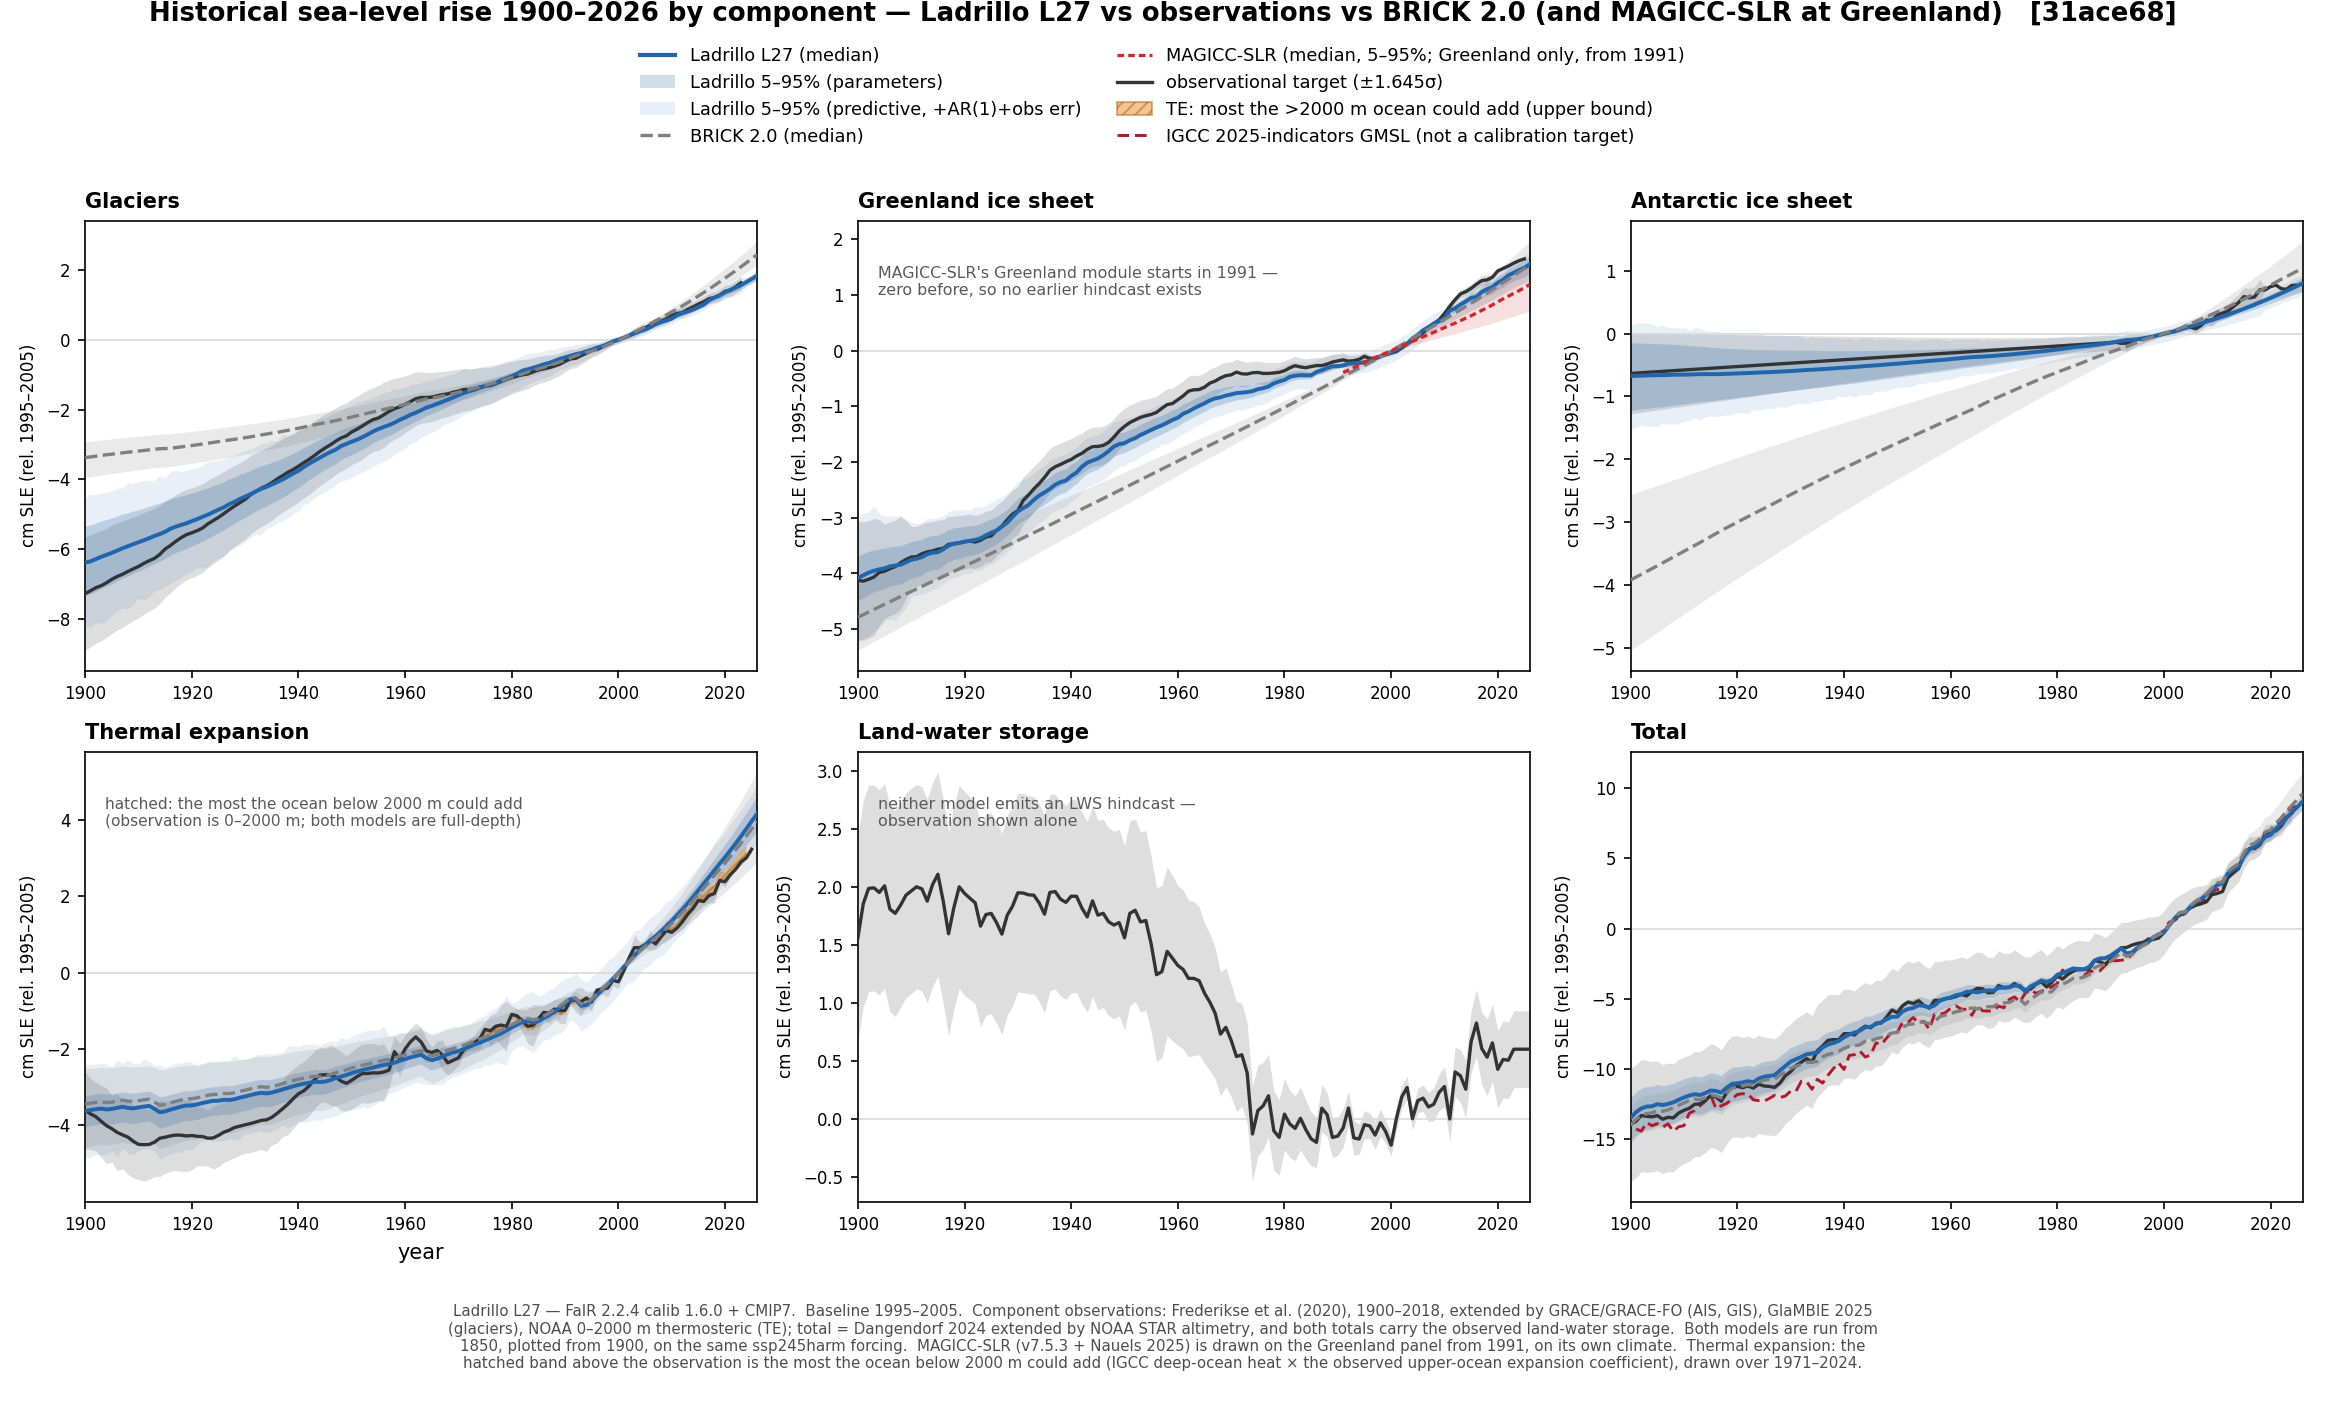
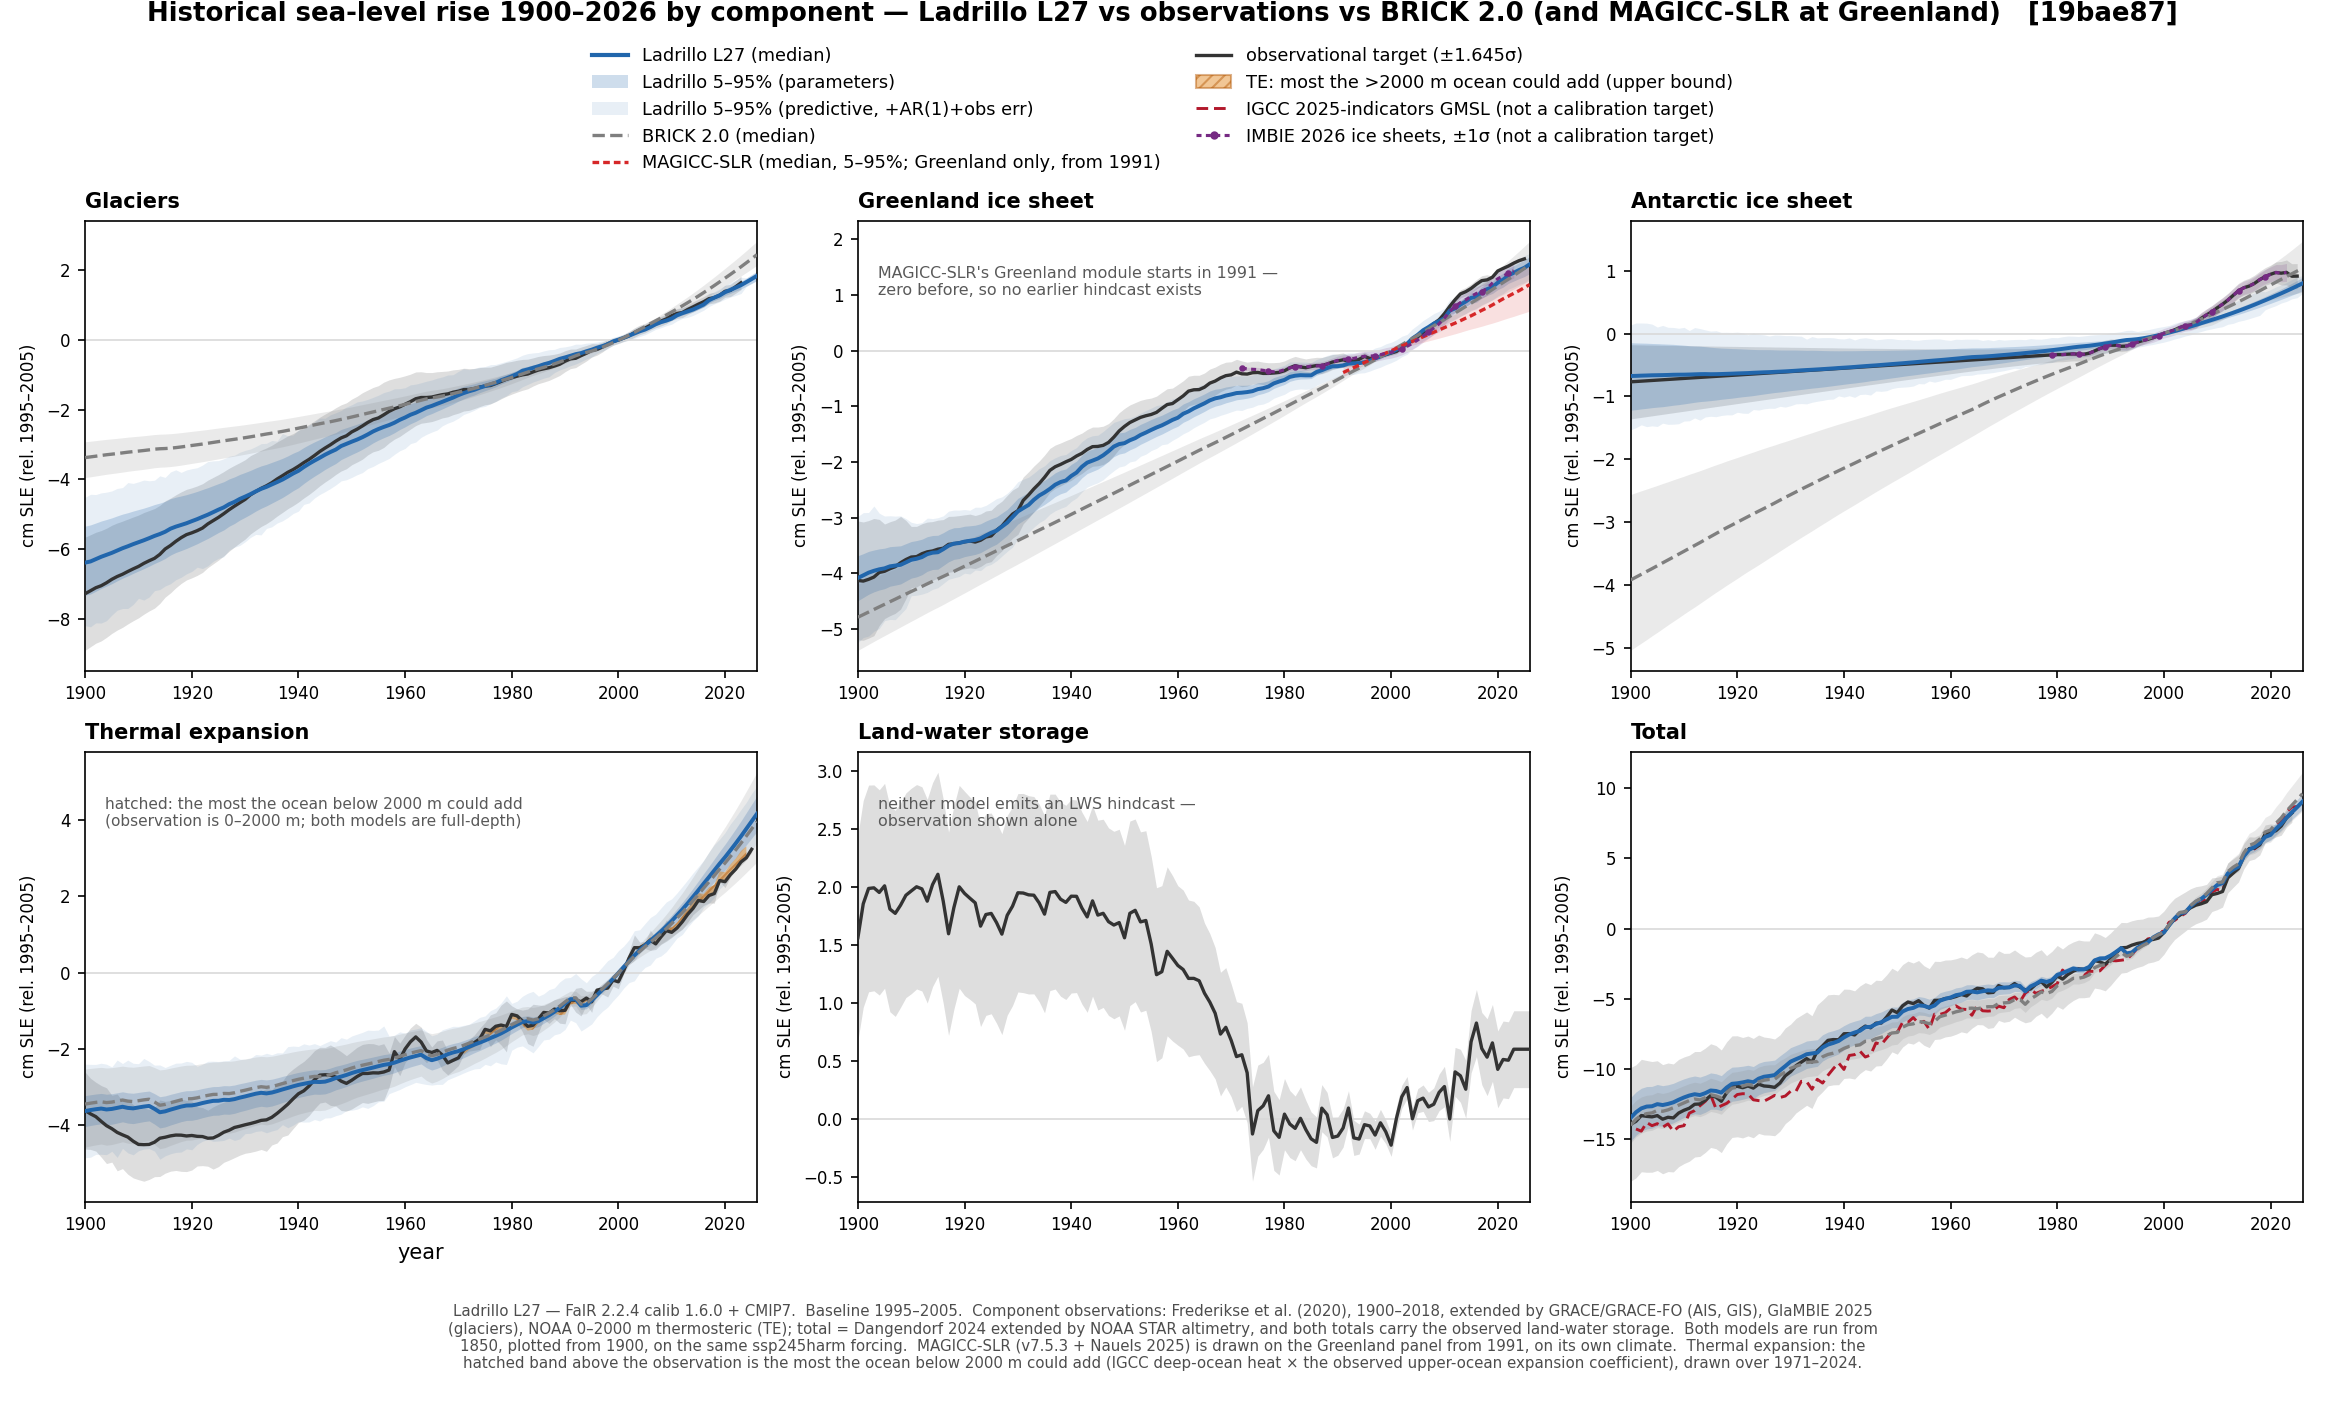
Add IMBIE 2026 to the observations figure; FIG 1 was still the L24 render
The two ice-sheet panels of the hindcast figure now carry the IMBIE 2026
reconciled record with its +/-1 sigma band, following the pattern IGCC
already sets on the total panel: an independent product that is not in the
fit, so agreement is evidence rather than circularity. The claim is
stronger here than for the total -- the calibrator drops the IMBIE point
terms and no vintage of the Greenland target has ever contained IMBIE.

The series is read from diag_imbie2026_vs_targets.py's output rather than
re-converting IMBIE's published files here, because that script is the
repo's one converter to cm SLE on the 1995-2005 reference and a second
copy of that rule is how two copies drift apart. Three gates: the
provenance stamp must name IMBIE 2026, the imbie_* columns must be
byte-identical to another tag's file (so the observation series cannot
inherit the candidate arm), and the series must already be zeroed on
1995-2005 or it would not share the figure's baseline.

Colour is #762a83, which already means IMBIE 2026 in
diag_imbie2026_vs_targets.py. Against Ladrillo's blue it is deuteranopia
dE 7.8 -- above the hard floor of 6, below the target of 8, which
validate_palette reports as "needs secondary encoding" -- so the series
also carries a dotted linestyle and markers. A red would have passed
outright but #b2182b is already IGCC on this figure's total panel, and red
would then mean two different products in one image.
[…]

diff --git a/python/plot_hindcast_components.py b/python/plot_hindcast_components.py
@@ -43,7 +43,7 @@ adjustment), not the raw `gsic` target column. They differ by ~1.5 cm at 1900 an
 2020; plotting raw makes Ladrillo look biased at 1900 when it is not. The band half-widths
 come from the target file and are re-centred on the corrected line so the two agree.
 """
-import os
+import glob, os
 import sys
 
 sys.path.insert(0, os.path.dirname(os.path.abspath(__file__)))
@@ -130,6 +130,22 @@ OBS_LINE = {"glaciers": "glaciers_obs_delta_corrected"}   # see the GLACIER OBS 
 C_LAD, C_BRK = lf.SRC_COLOR["Ladrillo"], lf.SRC_COLOR["BRICK 2.0"]
 C_MAG = lf.SRC_COLOR["MAGICC-SLR"]
 C_OBS, C_IGCC = "#333333", "#b2182b"
+## ⭐ IMBIE 2026 (Otosaka et al. 2026) on the two ICE-SHEET panels, for the same reason IGCC is on
+## the total: an INDEPENDENT product that is not in the fit, so agreement is evidence and not
+## circularity. It is a stronger claim here than for the total — the calibrator DROPS the IMBIE
+## point terms and no vintage of the Greenland target has ever contained IMBIE, so both panels are
+## genuinely out-of-sample (Antarctica for L27 specifically, which predates the IMBIE target build).
+## Antarctica starts 1979 and Greenland 1972; nothing is drawn before those years.
+C_IMBIE = "#762a83"
+## ⚠ COLOUR IS NOT THE ONLY CUE, DELIBERATELY. #762a83 against Ladrillo's #2166ac is deuteranopia
+## dE 7.8 under python/validate_palette.py — above the hard floor of 6 but below the target of 8,
+## which that tool reports as "needs secondary encoding". So this series carries a DOTTED linestyle
+## and round markers as well. The colour is kept because it already means "IMBIE 2026" in
+## diag_imbie2026_vs_targets.py, and one meaning per colour across the figure set is worth more
+## than 0.2 dE. ⛔ Do not silence the warning by switching to a red: #b2182b is IGCC on the total
+## panel of THIS figure, and red would then mean two different products in one image.
+IMBIE_CSV = os.path.join(lf.REPO, "outputs", "diag_imbie2026_vs_targets_%s.csv" % TAG)
+IMBIE_PANELS = {"ais": "AIS", "gis": "GIS"}   # figure component -> the diag file's component label
 
 for f in (LAD_CSV, BRK_CSV, TGT_CSV, IGCC_CSV, MAG_CSV, IGCC_EEI):
     if not os.path.exists(f):
@@ -216,6 +232,43 @@ IGCC_SIG = _ig["std"] / 10.0
 print("[IGCC] GMSL ensemble re-referenced to %d-%d over %d years (%d-%d), mm -> cm"
       % (BASE0, BASE1, len(_igw), int(_ig.index.min()), int(_ig.index.max())))
 
+## --- IMBIE 2026, the ice-sheet panels ------------------------------------------------------------
+## ⚠ READ FROM THE DIAGNOSTIC'S OUTPUT, AND SAY SO. diag_imbie2026_vs_targets.py is this repo's one
+## converter from IMBIE's published Gt/mm files to cm SLE on the 1995-2005 reference; re-implementing
+## that conversion here would be a second copy of the rule, which is how two copies drift apart.
+## ⭐ The imbie_* columns are TAG-INDEPENDENT and that is CHECKED below, not assumed, so the figure
+## does not inherit the candidate arm through its observation series.
+if os.path.exists(IMBIE_CSV):
+    _im = pd.read_csv(IMBIE_CSV)
+    _prov = str(_im["provenance"].iloc[0])
+    if "IMBIE 2026" not in _prov:
+        raise SystemExit("[IMBIE] %s does not carry an IMBIE 2026 provenance stamp" % IMBIE_CSV)
+    _other = [f for f in glob.glob(os.path.join(lf.REPO, "outputs",
+              "diag_imbie2026_vs_targets_L*.csv")) if f != IMBIE_CSV and "_windows" not in f
+              and "_anchors" not in f]
+    if _other:
+        _a = _im[["year", "component", "imbie_level_cm", "imbie_level_sd"]]
+        _b = pd.read_csv(_other[0])[["year", "component", "imbie_level_cm", "imbie_level_sd"]]
+        if not _a.equals(_b):
+            raise SystemExit("[IMBIE] the imbie_* columns differ between %s and %s — they are "
+                             "supposed to be tag-independent; the observation series must not "
+                             "depend on which arm was scored" % (os.path.basename(IMBIE_CSV),
+                                                                 os.path.basename(_other[0])))
+        print("[IMBIE] tag-independence CHECKED against %s" % os.path.basename(_other[0]))
+    IMBIE = {c: _im[_im.component == lab].set_index("year") for c, lab in IMBIE_PANELS.items()}
+    for c, d in IMBIE.items():
+        _w = d.loc[BASE0:BASE1, "imbie_level_cm"]
+        if abs(_w.mean()) > 1e-6:
+            raise SystemExit("[IMBIE] %s is not zeroed on %d-%d (mean %+.4f cm); it would not share "
+                             "a baseline with the rest of the figure" % (c, BASE0, BASE1, _w.mean()))
+        print("[IMBIE] %s %d-%d, %d yr, already cm SLE on the %d-%d reference"
+              % (c.upper(), int(d.index.min()), int(d.index.max()), len(d), BASE0, BASE1))
+else:
+    IMBIE = {}
+    print("[IMBIE] %s not found — the ice-sheet panels will be drawn WITHOUT the 2026 record. "
+          "Run: python python/diag_imbie2026_vs_targets.py --tag=%s" % (IMBIE_CSV, TAG))
+
+
 ## The deep-scope band: alpha_obs x deep heat anomaly, both from observations only.
 _eei = pd.read_csv(IGCC_EEI)
 _eei["year"] = np.floor(_eei["time"]).astype(int)
@@ -257,6 +310,17 @@ for ax, comp in zip(axes.ravel(), lf.COMPONENTS):
         ax.text(0.03, 0.90, "hatched: the most the ocean below 2000 m could add\n"
                 "(observation is 0–2000 m; both models are full-depth)",
                 transform=ax.transAxes, fontsize=7.4, color="0.35", va="top")
+
+    if comp in IMBIE:
+        d = IMBIE[comp]
+        m = (d.index >= X0) & (d.index <= X1)
+        ## the published +/-1 sigma IS an anomaly band here: the series was re-referenced per year
+        ## by the converter, so unlike IGCC's level sigma it does not cancel and is drawn.
+        ax.fill_between(d.index[m], (d["imbie_level_cm"] - d["imbie_level_sd"])[m],
+                        (d["imbie_level_cm"] + d["imbie_level_sd"])[m],
+                        color=C_IMBIE, alpha=0.15, lw=0, zorder=2)
+        ax.plot(d.index[m], d["imbie_level_cm"][m], color=C_IMBIE, lw=1.5, ls=(0, (1.6, 1.4)),
+                marker="o", markersize=2.1, markevery=5, zorder=6)
 
     if comp == "total":
         ## No shading: IGCC's published sigma is a LEVEL uncertainty that cancels on
@@ -312,7 +376,14 @@ handles = [Line2D([], [], color=C_LAD, lw=2, label="%s (median)" % DESC["model"]
            Patch(facecolor="#e08214", edgecolor="#b35806", hatch="////", alpha=0.45,
                  label="TE: most the >2000 m ocean could add (upper bound)"),
            Line2D([], [], color=C_IGCC, lw=1.4, ls=(0, (4, 2)),
-                  label="IGCC 2025-indicators GMSL (not a calibration target)")]
+                  label="IGCC 2025-indicators GMSL (not a calibration target)")] + (
+          ## ⛔ A DRAWN SERIES MUST BE IN THE LEGEND. This entry was missing on the first build and
+          ## the ice-sheet panels carried an unexplained purple line — which is also the "secondary
+          ## encoding" the palette check requires, so its absence broke the accessibility argument
+          ## for keeping this colour. Conditional on the data being present, so the legend can never
+          ## advertise a series the figure did not draw.
+          [Line2D([], [], color=C_IMBIE, lw=1.5, ls=(0, (1.6, 1.4)), marker="o", markersize=3,
+                  label="IMBIE 2026 ice sheets, ±1σ (not a calibration target)")] if IMBIE else [])
 fig.legend(handles=handles, ncol=2, fontsize=8.5, frameon=False, loc="upper center",
            bbox_to_anchor=(0.5, 0.978))
 if not lf.PAPER:

diff --git a/python/build_gmd_v2_L27.py b/python/build_gmd_v2_L27.py
@@ -19,7 +19,7 @@ a silent no-op -- a stale draft would otherwise produce a "new version" that cha
 
   python3 python/build_gmd_v2_L27.py [--in v1.docx] [--out v2.docx]
 """
-import argparse, os, re, shutil, subprocess, sys, tempfile, zipfile
+import argparse, glob, os, re, shutil, subprocess, sys, tempfile, zipfile
 
 REPO = os.path.dirname(os.path.dirname(os.path.abspath(__file__)))
 DEL  = os.path.join(REPO, "deliverables")
@@ -39,6 +39,9 @@ EDITS = [
   " 1.05), directions that are weakly identified and compensate for each other; several fail on effective sample size rather than on R̂. Ladrillo 1.0 is therefore accepted on the deliverable-level criterion: projected sea level converges (R̂ = 1.001 at 2100 and 1.002 at 2150 on SSP2-4.5, with an effective sample size of about 1240 on the 1,600 thinned draws used for the diagnostic)."),
  ("the reparameterised precipitation parameter (--precip-reparam)",
   "<w:t>ais_precip0_LOG</w:t>", "<w:t>ais_precip_u</w:t>"),
+ ("FIG 1 caption: the vintage, and the new IMBIE series on the two ice-sheet panels",
+  "Ladrillo L24 (solid, with its 5\u201395% band) and BRICK 2.0 (dashed) are both run starting in 1850, plotted from 1900, and driven by the same ssp245harm forcing.",
+  "Ladrillo 1.0 (solid, with its 5\u201395% band) and BRICK 2.0 (dashed) are both run starting in 1850, plotted from 1900, and driven by the same ssp245harm forcing. The two ice-sheet panels also show the IMBIE 2026 reconciled record with its \u00b11\u03c3 band, from 1979 for Antarctica and 1972 for Greenland; it is not a calibration target for either."),
  ("lambda moments (now PROPAGATED paleo draws) + the 2300 band width, joint arm both models",
   "(mean 0.0105, sd 0.0033 in Ladrillo; 0.0104, 0.0036 in BRICK 2.0), which is why the two Antarctic spreads are alike (5–95% widths of 329 and 405 cm at SSP5-8.5 in 2300).",
   "(mean 0.0104, sd 0.0036 in Ladrillo; 0.0104, 0.0036 in BRICK 2.0 — in Ladrillo these parameters are not estimated but propagated, one joint paleo draw per posterior draw, so the two models now draw them from the same ensemble), which is why the two Antarctic spreads are alike (5–95% widths of 314 and 405 cm at SSP5-8.5 in 2300)."),
@@ -138,6 +141,26 @@ def main():
     print(f"  inserted {len(NEW_PARAS)} paragraphs after: {ANCHOR}")
 
     open(dx, "w", encoding="utf8").write(x)
+
+    # ---- FIG 1 is still the L24 RENDER, not just an L24 caption ---------------------------------
+    # ⚠ The audit that caught the L24 prose checked TEXT only. word/media/image1.png is
+    # hindcast_components_L24.png byte-for-byte. Swapping it is the other half of the vintage fix,
+    # and it is done by MD5 so the script cannot replace the wrong image if the draft is reordered.
+    import hashlib
+    fig = os.path.join(REPO, "figures", "hindcast_components_L27.png")
+    if not os.path.exists(fig):
+        sys.exit("*** missing %s -- run python/plot_hindcast_components.py --tag=L27" % fig)
+    want = hashlib.md5(open(os.path.join(REPO, "figures",
+                                         "hindcast_components_L24.png"), "rb").read()).hexdigest()
+    swapped = None
+    for m in sorted(glob.glob(os.path.join(tmp, "word/media/*"))):
+        if hashlib.md5(open(m, "rb").read()).hexdigest() == want:
+            shutil.copyfile(fig, m); swapped = os.path.basename(m); break
+    if swapped is None:
+        sys.exit("*** FIG 1 image not found in word/media by MD5: the embedded figure is not "
+                 "hindcast_components_L24.png. REFUSING to guess which image to replace.")
+    print(f"  FIG 1 image swapped ({swapped}): hindcast_components_L24.png -> _L27.png "
+          f"(now carries the IMBIE 2026 series)")
     if os.path.exists(a.out): os.remove(a.out)
     subprocess.run(["zip", "-Xqr", a.out, "."], cwd=tmp, check=True)
     shutil.rmtree(tmp)
@@ -149,9 +172,11 @@ def main():
     words = len(txt.split())
     if words < 3000: sys.exit(f"*** independent reader got {words} words; expected >3000. STOP")
     must_have = ["50 parameters are sampled", "42 of the 50 parameters pass", "ais_precip_u",
-                 "314 and 405 cm", "IMBIE 2026 as an out-of-sample check", "innovation variance"]
+                 "314 and 405 cm", "IMBIE 2026 as an out-of-sample check", "innovation variance",
+                 "Ladrillo 1.0 (solid, with its 5\u201395% band)",
+                 "IMBIE 2026 reconciled record with its \u00b11\u03c3 band"]
     must_be_gone = ["58 parameters are sampled", "39 of the 58", "L24 is therefore accepted",
-                    "ais_precip0_LOG", "329 and 405", "1.008 at 2100"]
+                    "ais_precip0_LOG", "329 and 405", "1.008 at 2100", "Ladrillo L24 (solid"]
     bad = [s for s in must_have if s not in txt] + [f"STILL PRESENT: {s}" for s in must_be_gone if s in txt]
     if bad: sys.exit("*** independent reader disagrees:\n  " + "\n  ".join(bad))
     print(f"  independent reader: {words} words, {len(must_have)} new strings present, "
